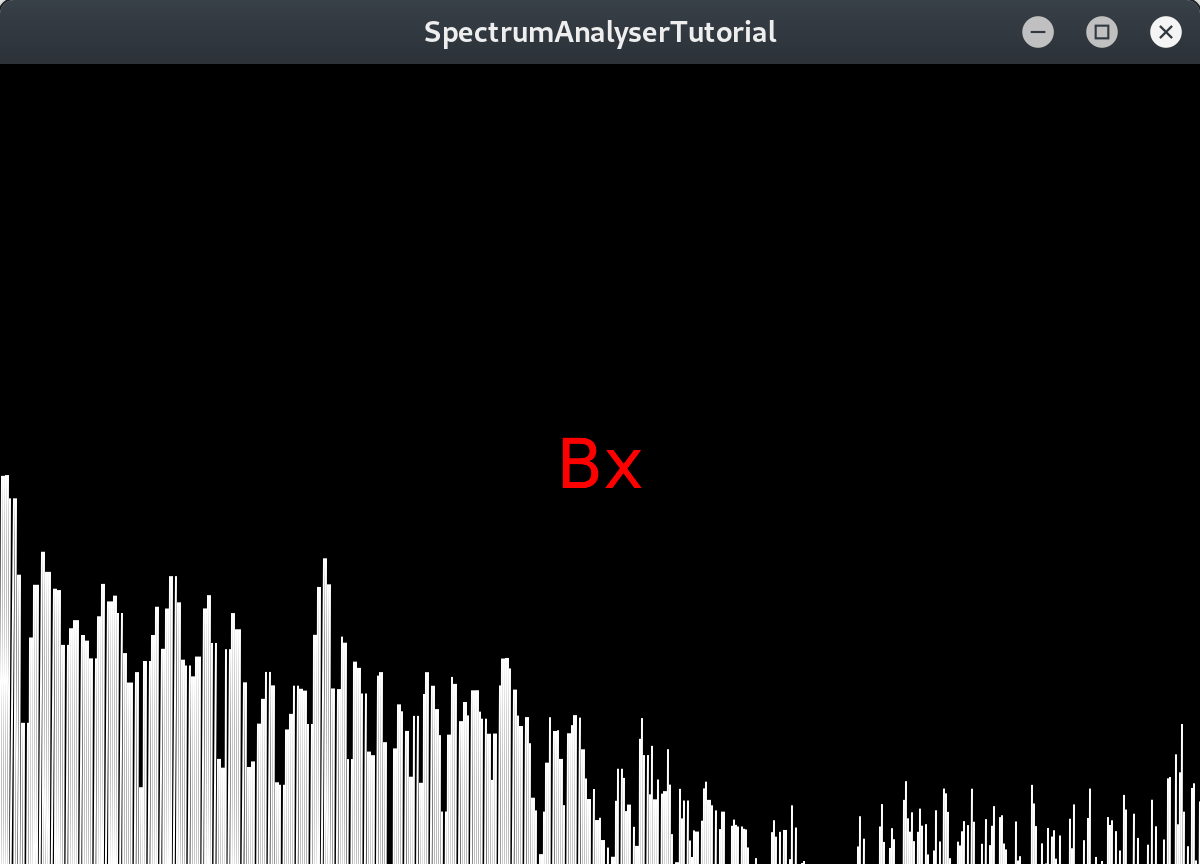
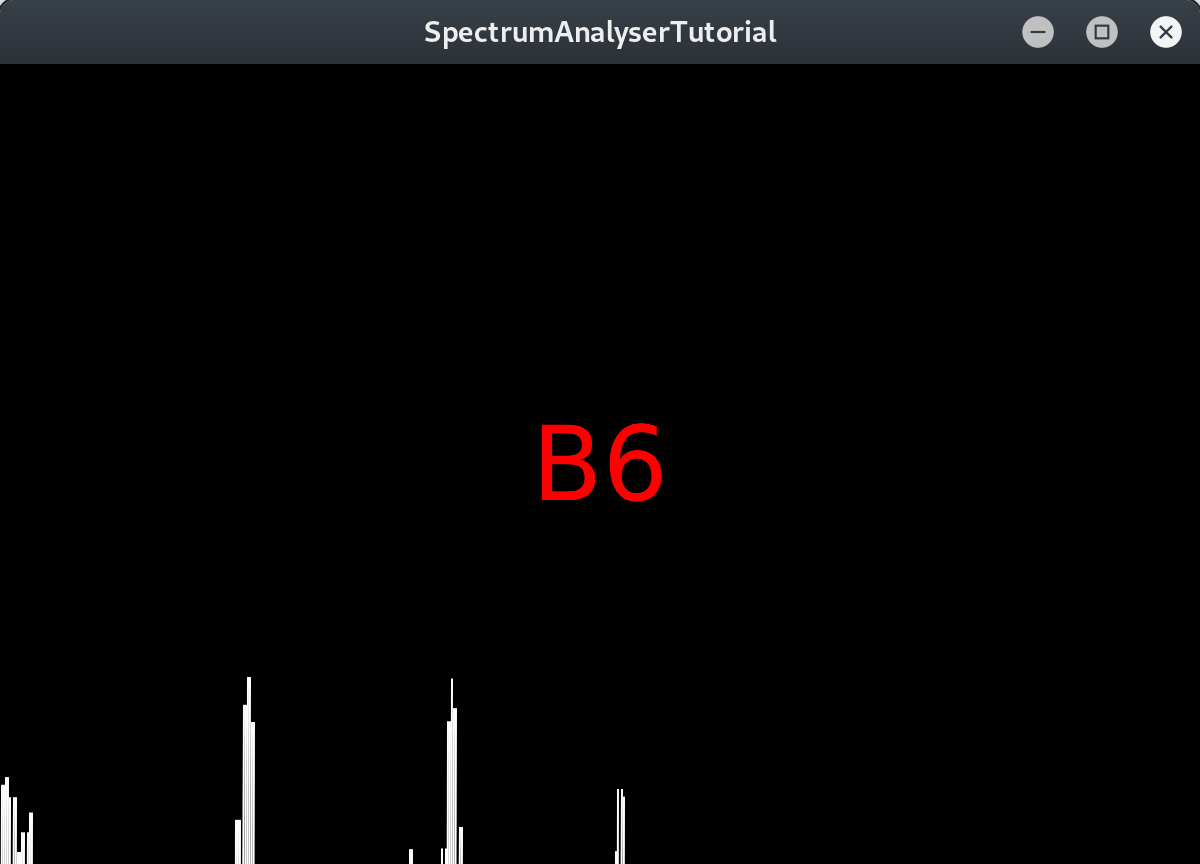
Get first of pair when max_bin is calculated, add new screenshot

Changed region(s): [[0.0, 0.5625, 0.6783, 1.0], [0.7092, 0.875, 1.0, 1.0], [0.4317, 0.4688, 0.555, 0.5938]]

diff --git a/SpectrumAnalyserTutorial/Source/SpectrumAnalyserTutorial_02.h b/SpectrumAnalyserTutorial/Source/SpectrumAnalyserTutorial_02.h
@@ -284,24 +284,22 @@ public:
     } else {
 
       // Find the greatest bin
-      const auto max_bin = *std::max_element(
+      const auto max_bin = std::max_element(
         peaks.cbegin(), peaks.cend(),
         [](const auto &a, const auto &b){
           return a.second < b.second;
         }
-        );
+        )->first;
 
       for (const auto &[key, value] : peaks)
         std::cout << key << "\t" << std::string(value, '-') << "\n";
 
       // Calculate frequency of bin
       const double resolution = 44100 / fftSize;
-      const double frequency = (max_bin.first + 1) * resolution;
+      const double frequency = (max_bin + 1) * resolution;
 
-      std::cout << max_bin.first << " max bin "
-        << frequency << " frequency "
-        << fftSize << " fftSize "
-        << resolution << " resolution\n";
+      std::cout << max_bin << " max bin\n";
+      std::cout << frequency << " frequency\n";
 
       // Find the closest note for the bin
       for (auto i = notes.cbegin(); i != notes.cend(); ++i)
